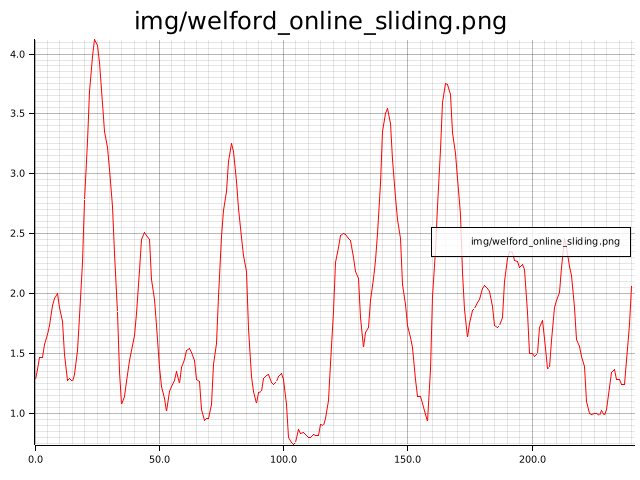
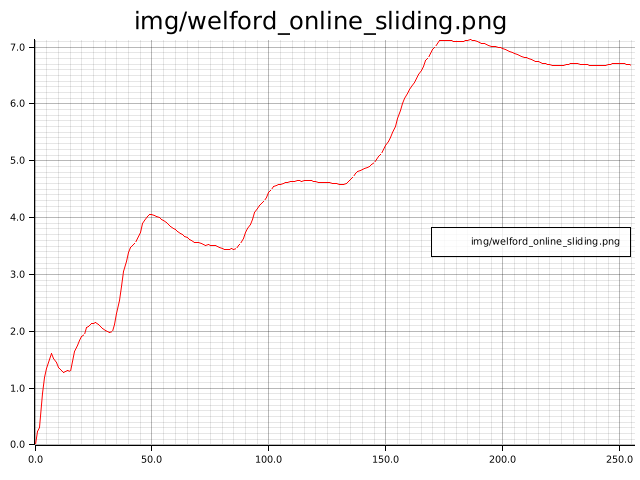
4.0.1: Add `rolling::WelfordRolling`

Changed region(s): [[0.0, 0.0625, 1.0, 0.9688]]

diff --git a/src/rolling/welford_online.rs b/src/rolling/welford_online.rs
@@ -1,0 +1,111 @@
+//! Welford online algorithm for computing mean and variance on-the-fly
+//! over a sliding window
+
+use crate::{pure_functions::Echo, View};
+use getset::CopyGetters;
+
+/// Welford online algorithm for computing mean and variance on-the-fly
+/// over a sliding window
+#[derive(Debug, Clone, CopyGetters)]
+pub struct WelfordRolling<V> {
+    view: V,
+    /// The mean of the observed samples
+    #[getset(get_copy = "pub")]
+    mean: f64,
+    s: f64,
+    n: usize,
+}
+
+impl Default for WelfordRolling<Echo> {
+    fn default() -> Self {
+        Self::new(Echo::new())
+    }
+}
+
+impl<V> WelfordRolling<V>
+where
+    V: View,
+{
+    /// Create a WelfordOnline struct with a chained View
+    pub fn new(view: V) -> Self {
+        Self {
+            view,
+            mean: 0.0,
+            s: 0.0,
+            n: 0,
+        }
+    }
+
+    /// Return the variance of the sliding window
+    pub fn variance(&self) -> f64 {
+        if self.n > 1 {
+            self.s / (self.n as f64 - 1.0)
+        } else {
+            0.0
+        }
+    }
+}
+
+impl<V> View for WelfordRolling<V>
+where
+    V: View,
+{
+    fn update(&mut self, val: f64) {
+        self.view.update(val);
+        let Some(val) = self.view.last() else { return };
+
+        self.n += 1;
+        let old_mean = self.mean;
+        self.mean += (val - old_mean) / self.n as f64;
+        self.s += (val - old_mean) * (val - self.mean);
+    }
+
+    fn last(&self) -> Option<f64> {
+        if self.n == 0 {
+            return None;
+        }
+        Some(self.variance().sqrt())
+    }
+}
+
+#[cfg(test)]
+mod tests {
+    use super::*;
+    use crate::plot::plot_values;
+    use crate::test_data::TEST_DATA;
+    use round::round;
+
+    #[test]
+    fn welford_online() {
+        let mut wo = WelfordRolling::default();
+        for v in &TEST_DATA {
+            wo.update(*v);
+            if let Some(val) = wo.last() {
+                assert!(!val.is_nan());
+            }
+        }
+        let w_std_dev = wo.last().expect("Is some");
+
+        // compute the standard deviation with the regular formula
+        let avg: f64 = TEST_DATA.iter().sum::<f64>() / TEST_DATA.len() as f64;
+        let std_dev: f64 = ((1.0 / (TEST_DATA.len() as f64 - 1.0))
+            * TEST_DATA.iter().map(|v| (v - avg).powi(2)).sum::<f64>())
+        .sqrt();
+
+        assert_eq!(round(w_std_dev, 4), round(std_dev, 4));
+    }
+
+    #[test]
+    fn welford_online_plot() {
+        let mut wo = WelfordRolling::default();
+        let mut out: Vec<f64> = Vec::new();
+        for v in &TEST_DATA {
+            wo.update(*v);
+            if let Some(val) = wo.last() {
+                out.push(val);
+            }
+        }
+        let filename = "img/welford_online_sliding.png";
+        plot_values(out, filename).unwrap();
+    }
+}

diff --git a/src/rolling/mod.rs b/src/rolling/mod.rs
@@ -2,6 +2,8 @@
 
 mod drawdown;
 mod ln_return;
+mod welford_online;
 
 pub use drawdown::Drawdown;
 pub use ln_return::LnReturn;
+pub use welford_online::WelfordRolling;
